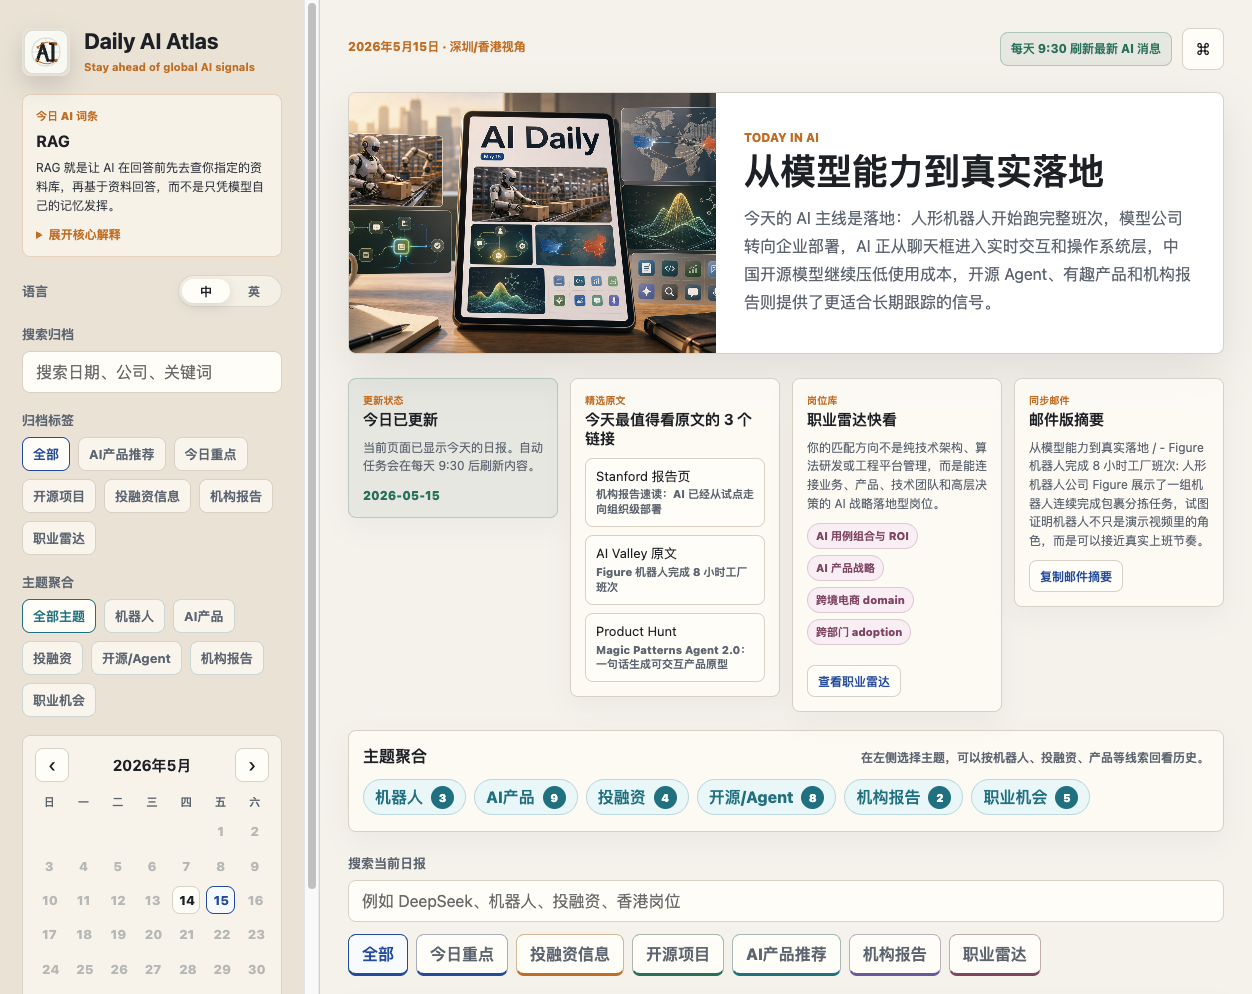
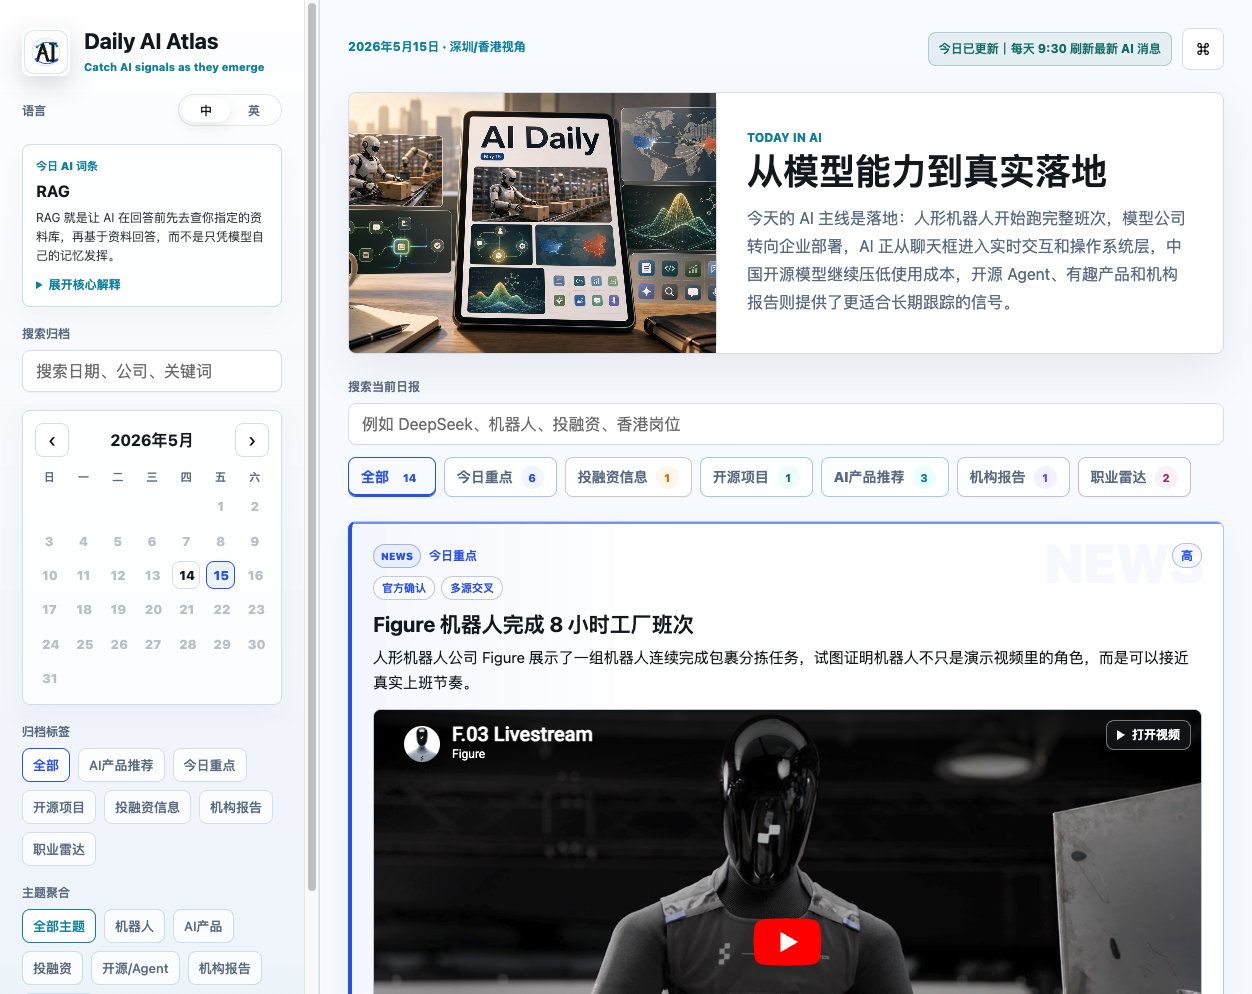
Update README for GitHub Pages hosting

diff --git a/README.md b/README.md
@@ -4,9 +4,7 @@
 
 ## Demo
 
-线上地址：[https://daily-ai-atlas.vercel.app](https://daily-ai-atlas.vercel.app)
-
-GitHub Pages 镜像：[https://irisxqing.github.io/daily-ai-atlas/](https://irisxqing.github.io/daily-ai-atlas/)
+线上地址：[https://irisxqing.github.io/daily-ai-atlas/](https://irisxqing.github.io/daily-ai-atlas/)
 
 ## Screenshot
 
@@ -23,14 +21,13 @@ GitHub Pages 镜像：[https://irisxqing.github.io/daily-ai-atlas/](https://iris
 - 双语阅读：默认简体中文，支持英文切换。
 - 图文/视频卡片：支持产品截图、GitHub preview、视频嵌入和图片加载失败兜底。
 - 职业雷达：聚合 AI strategy / AI transformation / AI product strategy 等非纯技术岗位方向，并总结能力缺口。
-- 静态部署：无需后端即可部署到 Vercel、GitHub Pages 或 Netlify。
+- 静态部署：无需后端即可部署到 GitHub Pages，也可以迁移到其他静态托管平台。
 
 ## Tech Stack
 
 - HTML / CSS / Vanilla JavaScript
 - Static data archive in `app.js`
-- Vercel for production hosting
-- GitHub Pages as mirror hosting
+- GitHub Pages for static hosting
 - Codex automation for daily content generation and publishing workflow
 - Python `http.server` for local preview
 
